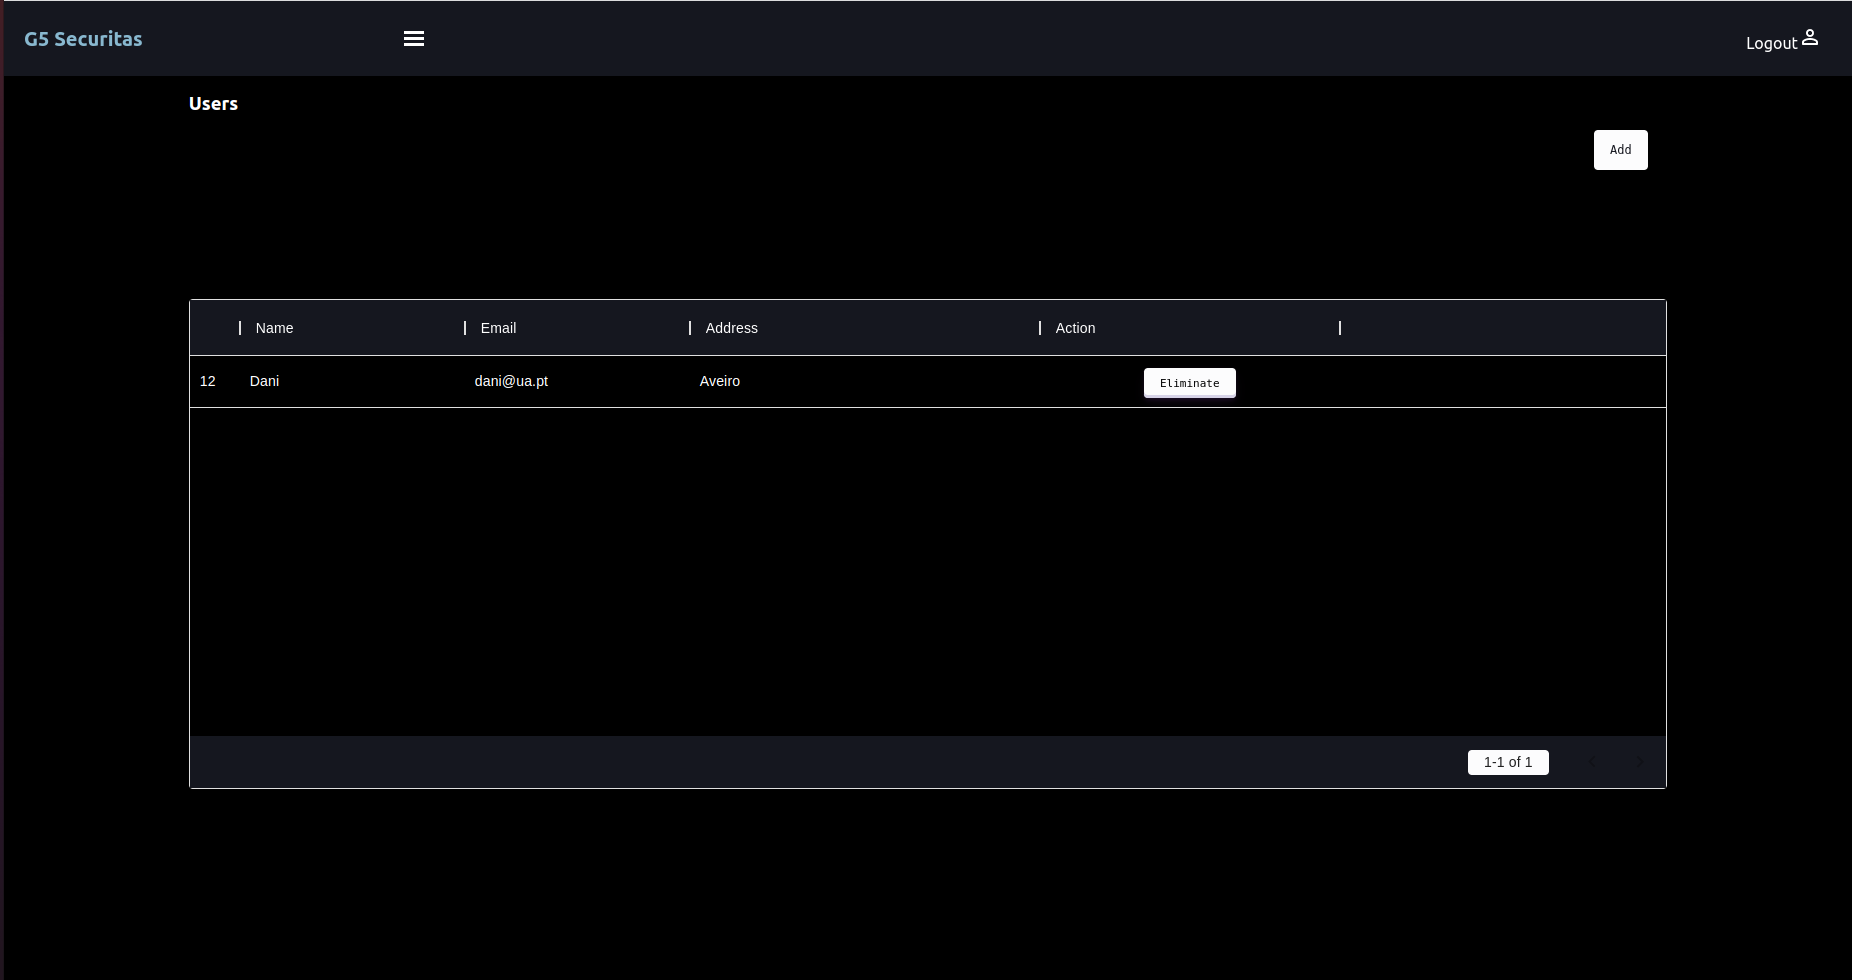
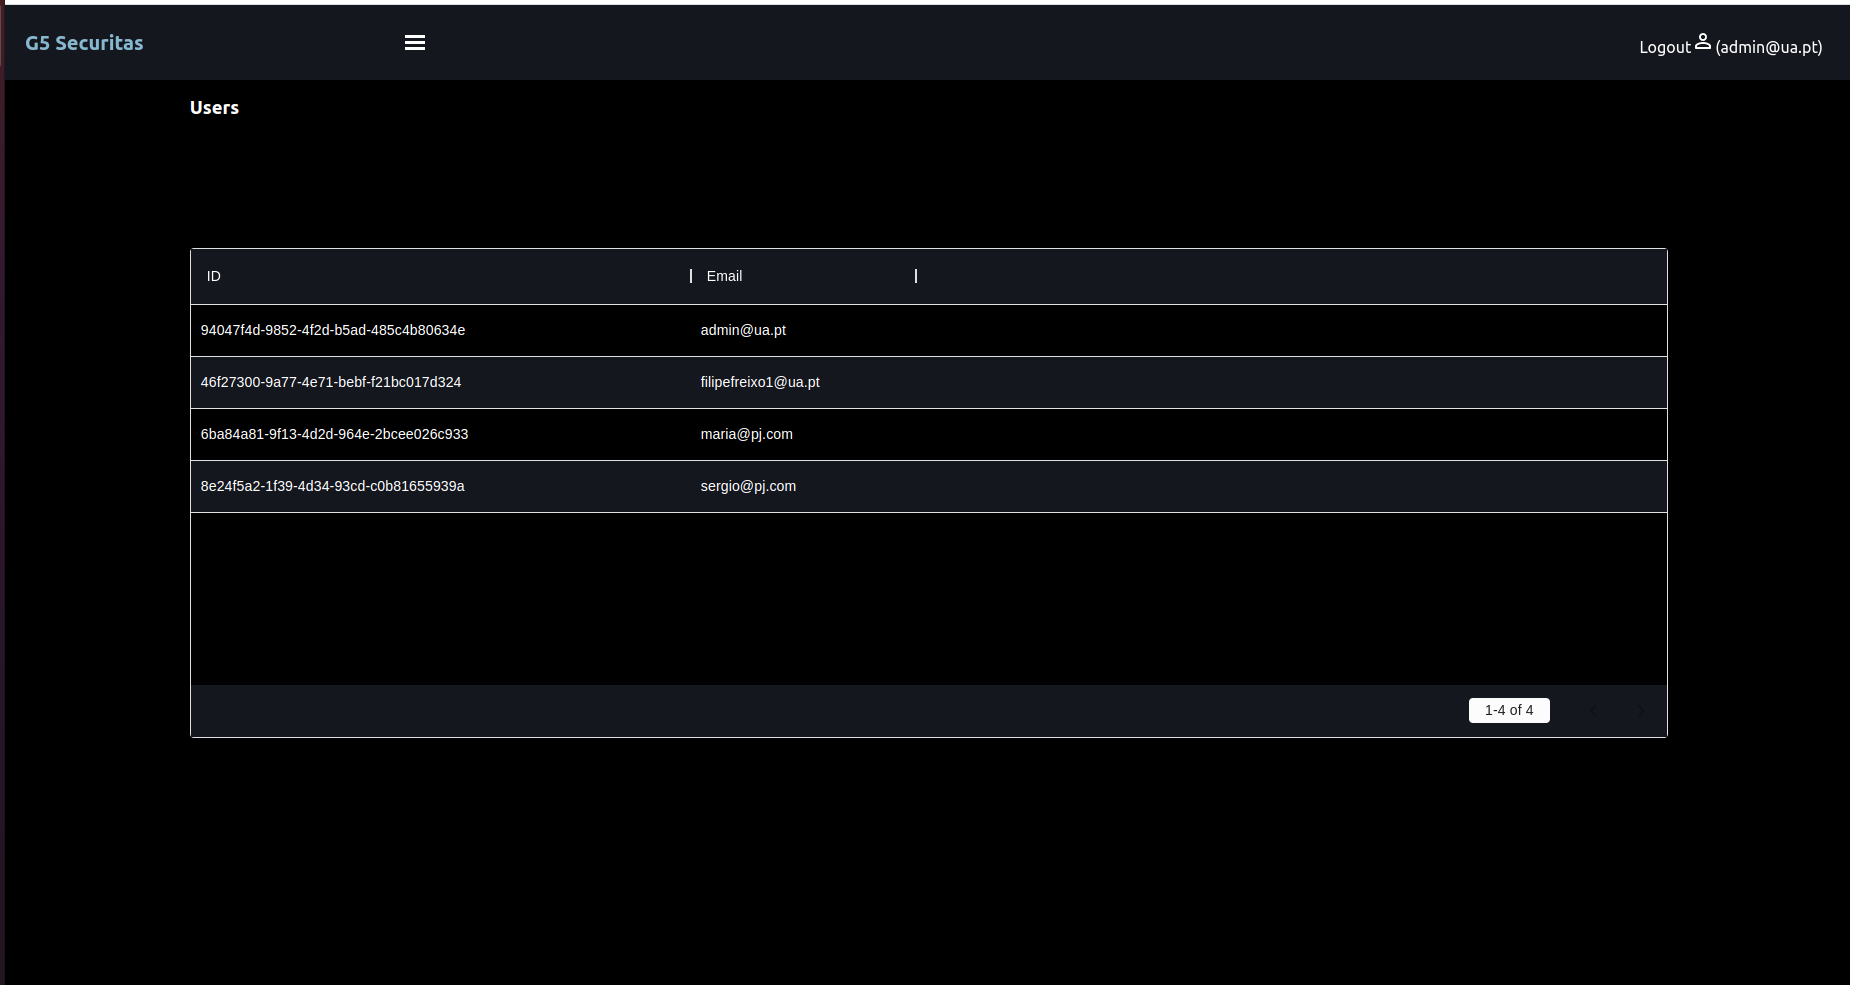
update documentation

diff --git a/docusaurus/docs/documentation/management-web-ui/management-web-ui.md b/docusaurus/docs/documentation/management-web-ui/management-web-ui.md
@@ -6,13 +6,28 @@ sidebar_position: 1
 
 The [React](https://reactjs.org/) was the tool chosen to develop the Management Web UI.
 
-First we create a page to list all users so that the admin can see all users on the system.
-For this, we implement a "Users" component, where we develop code from a table, which contains information from all users .
+## Users and Properties Page
+
+First we create a page to list all users, and another page to list all properties so that the admin can see all users/properties on the system.
+For this, we implemented a "Users" component, and a "Properties" component where we developed code from a table, which contains information about all users/properties.
 ![](./img/listUsers.png)
+![](./img/listProperties.png)
 
-Still in the component created earlier, "Users", we perform the functionality of adding and removing a user.
-We implemented a button at the top of the page with the label "Add". We create a Popup, which appears when we click on the "Add" button, with a suitable form for creating a user.  
-![](./img/addUser.png)
+## Cameras and Alarms Page
 
-In each row of the users table (in each user) we create an "Eliminate" button, and a Popup associated with the button that works as confirmation of the user's elimination. 
-![](./img/deleteUser.png)
+We created two pages, one to list the cameras and the other to list the alarms.
+For this, we implemented a “Cameras” component and another “Alarms” component. In each component we developed a code from a table, which contains information about the cameras/alarms.
+![](./img/listCameras.png)
+![](./img/listAlarms.png)
+
+We perform the functionality of adding and removing a camera on the cameras page, and on the alarms page we implement the functionality of adding and removing an alarm.
+
+On the cameras page, we developed a button at the top of the page with the label "Add". We create a Popup, which appears when we click on the "Add" button, with a form suitable for creating a camera.
+![](./img/addCamera.png)
+On the alarms page we did the same thing for the alarms.
+![](./img/addAlarm.png)
+
+On the cameras page, in each row of the camera table (in each camera) we create a "Delete" button, and a Popup associated with the button that works as confirmation of the camera's deletion.
+![](./img/deleteCamera.png)
+We did the same for the alarms page. 
+![](./img/deleteAlarm.png)

diff --git a/docusaurus/docs/documentation/client-web-ui/client-web-ui.md b/docusaurus/docs/documentation/client-web-ui/client-web-ui.md
@@ -6,6 +6,8 @@ sidebar_position: 1
 
 The [React](https://reactjs.org/) was the tool chosen to develop the Client Web UI.
 
+## Cameras and Alarms Page
+
 First, we created two pages, one to list the cameras and the other to list the alarms, for a given client, so that the client can see their characteristics.
 For this, we implemented a “Cameras” component and another “Alarms” component. In each component we developed a code from a table, which contains information about the cameras/alarms.
 ![](./img/listCameras.png)
@@ -22,3 +24,11 @@ On the cameras page, in each row of the camera table (in each camera) we create 
 ![](./img/deleteCameras.png)
 We did the same for the alarms page. 
 ![](./img/deleteAlarms.png)
+
+## Intrusions page
+
+We also created a page to list the instructions for a specific client.
+We implemented an "Intrusions" component with code for a table with information about the intrusions (date, time, property and the camera ID where the intrusion occurred).
+![](./img/listIntrusions.png)
+
+In addition, we have developed the functionality to view the intrusion video. We created a "Watch Video" button in each line of the table (in each intrusion), and a Popup associated with the button that shows the respective intrusion video.

diff --git a/docusaurus/docs/techologies-used/techologies-used.md b/docusaurus/docs/techologies-used/techologies-used.md
@@ -17,7 +17,7 @@ We decide to use the following technologies to build our system:
 | Management Web UI   | React  |
 | Client’s UI   | React     |
 | Service Discovery   |  TbC   |
-| Identity Provider (IDP)   | TbC     |
+| Identity Provider (IDP)   | Keycloack     |
 | Logs Monitor   | TbC    |
 | ParaMetrics Monitorgraph   | TbC    |
 

diff --git a/docusaurus/docs/documentation/identity-provider/identity-provider.md b/docusaurus/docs/documentation/identity-provider/identity-provider.md
@@ -1,0 +1,5 @@
+---
+sidebar_position: 1
+---
+
+# Identity Provider

diff --git a/docusaurus/docs/documentation/client-web-ui/deployment.md b/docusaurus/docs/documentation/client-web-ui/deployment.md
@@ -1,0 +1,5 @@
+---
+sidebar_position: 3
+---
+
+# Deployment

diff --git a/docusaurus/docs/documentation/identity-provider/deployment.md b/docusaurus/docs/documentation/identity-provider/deployment.md
@@ -1,0 +1,5 @@
+---
+sidebar_position: 3
+---
+
+# Deployment

diff --git a/docusaurus/docs/documentation/identity-provider/testing.md b/docusaurus/docs/documentation/identity-provider/testing.md
@@ -1,0 +1,5 @@
+---
+sidebar_position: 2
+---
+
+# Testing
